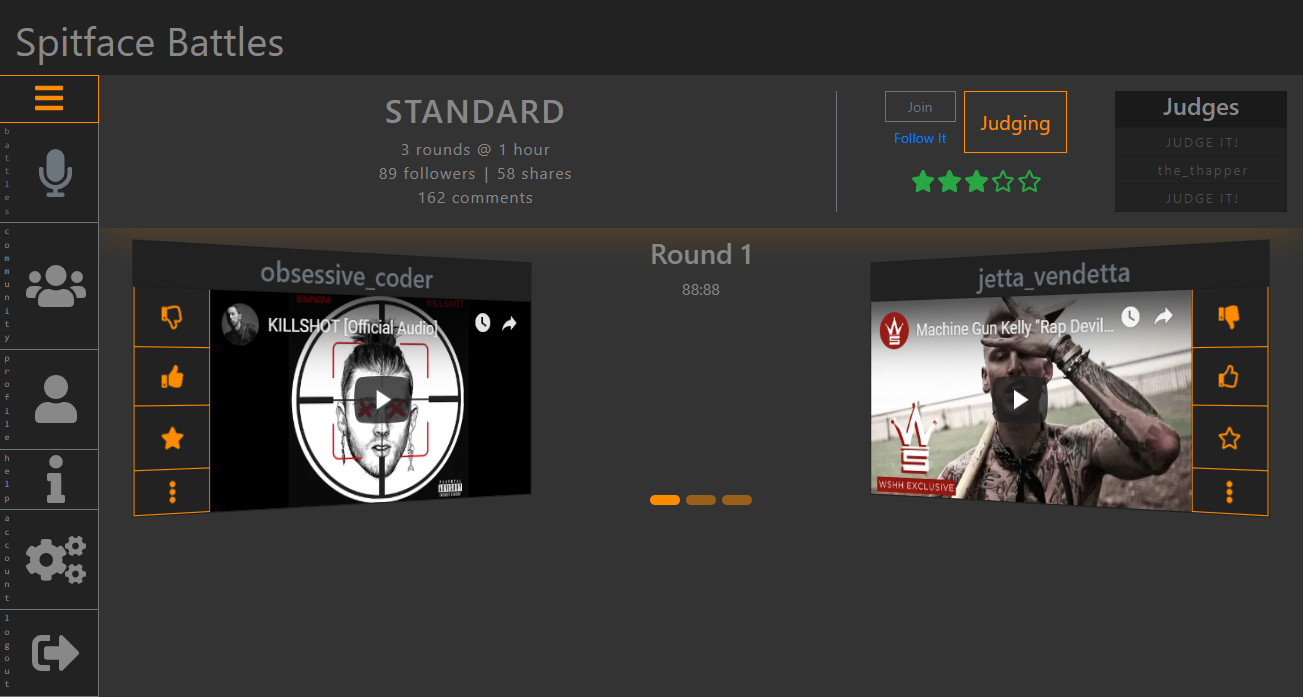
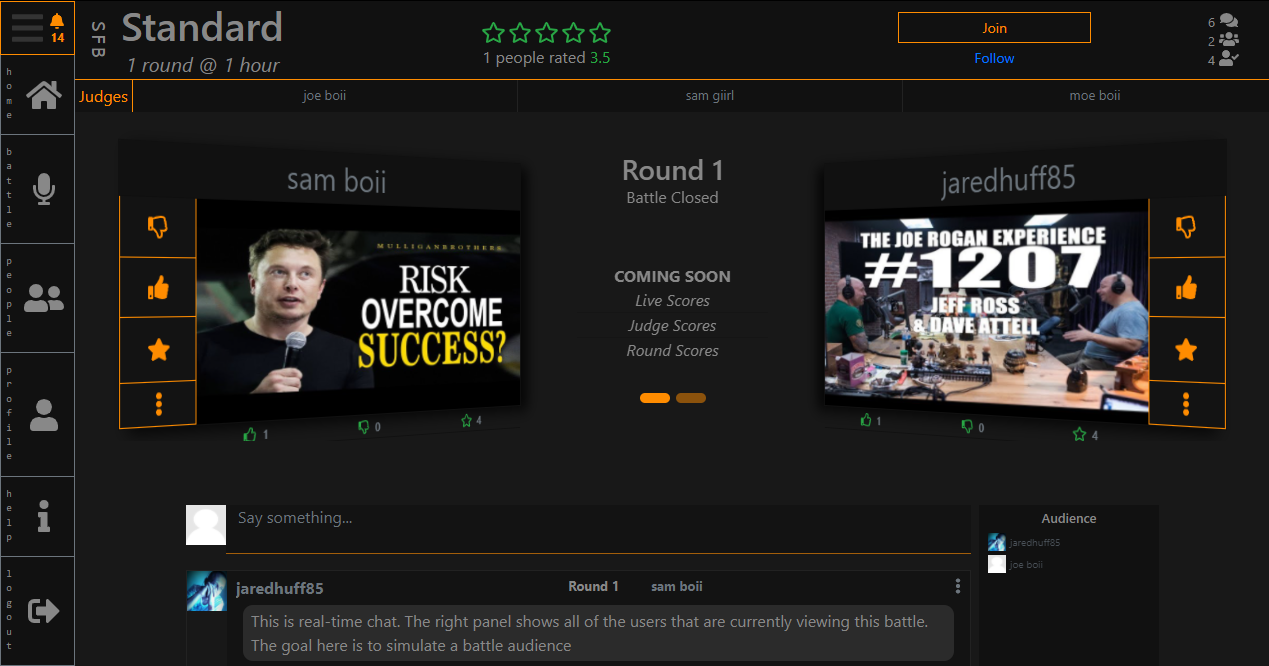
updated screen shots

diff --git a/README.md b/README.md
@@ -9,12 +9,17 @@ More than a video platform or social media site, Spitface Battles aims to connec
 
 Spitface Battles uses ReactJs, and accesses a Node and ExpressJS API that is hosted on AWS Elastic Beanstalk. Database manipulation is handled with Sequelize, and the database is being hosted on AWS Relational Database Service. Authentication is being managed with Auth0
 
-### The Main Sidebar Navigation and Menu
-<img src="https://github.com/Obsessive-Coder/Spitface-Battles-Public/blob/master/screenshots/Sidebar.PNG?raw=true" />
-
 ### The Battle Stage
 <img src="https://github.com/Obsessive-Coder/Spitface-Battles-Public/blob/master/screenshots/BattleStage.PNG?raw=true" />
-<img src="https://github.com/Obsessive-Coder/Spitface-Battles-Public/blob/master/screenshots/FullPage.PNG?raw=true" />
+
+### Advanced Score Card
+<img src="https://github.com/Obsessive-Coder/Spitface-Battles-Public/blob/master/screenshots/ScoreCard.PNG?raw=true" />
+
+### Battle Review
+<img src="https://github.com/Obsessive-Coder/Spitface-Battles-Public/blob/master/screenshots/BattleReview.PNG?raw=true" />
+
+### The Main Sidebar Navigation and Menu
+<img src="https://github.com/Obsessive-Coder/Spitface-Battles-Public/blob/master/screenshots/Sidebar.PNG?raw=true" />
 
 ### The Profile Page
 <img src="https://github.com/Obsessive-Coder/Spitface-Battles-Public/blob/master/screenshots/ProfilePage.PNG?raw=true" />
